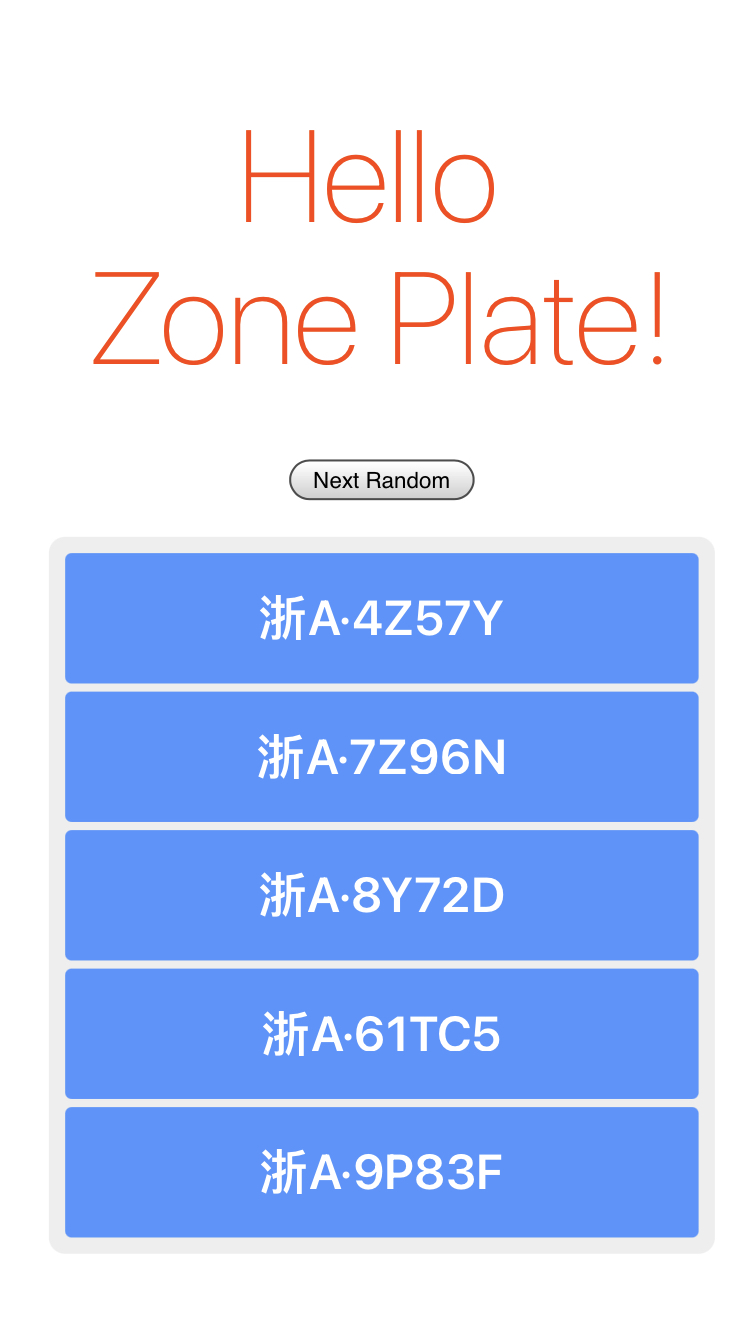
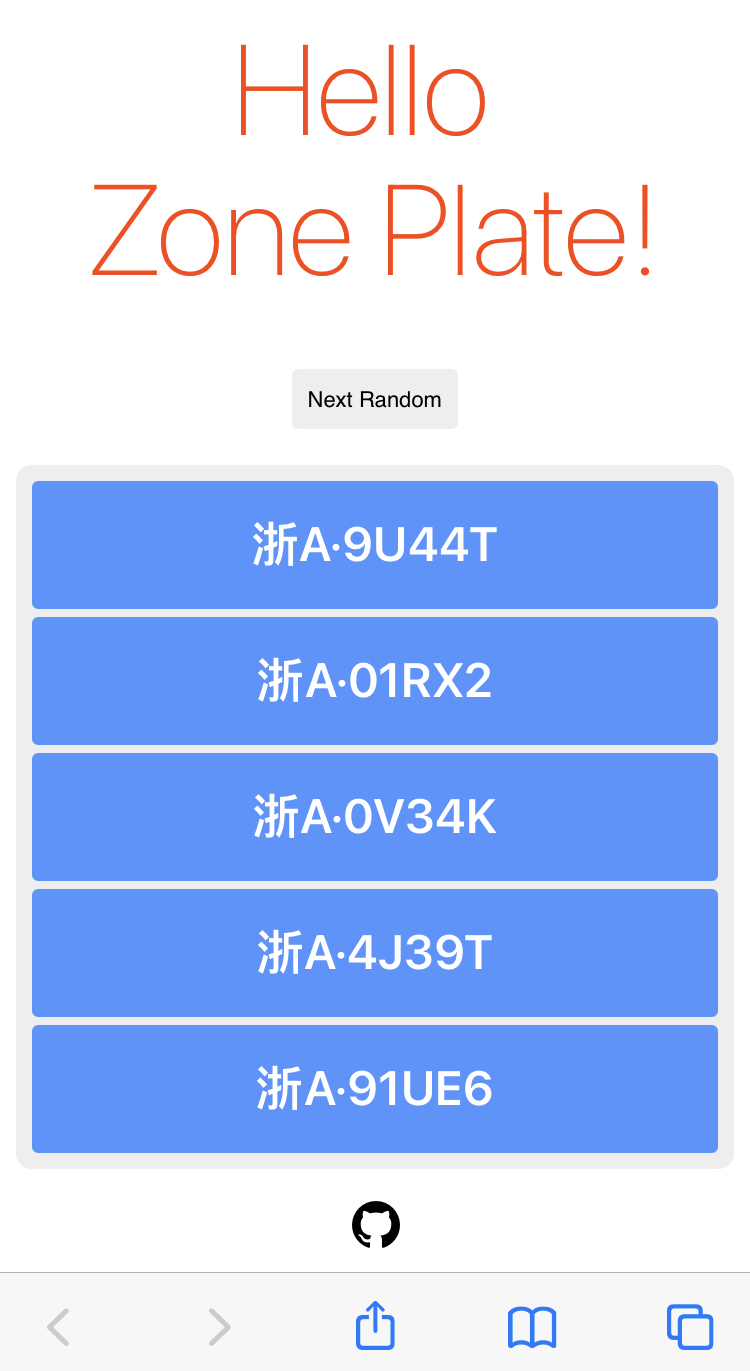
feat: add github link

Changed region(s): [[0.0307, 0.3404, 0.9813, 0.9902], [0.1227, 0.0309, 0.8893, 0.3094], [0.0613, 0.9592, 0.092, 0.9902]]

diff --git a/src/components/GithubIcon.svelte b/src/components/GithubIcon.svelte
@@ -1,0 +1,15 @@
+<script lang="ts">
+  export let url:string;
+</script>
+
+<a href={url}>
+  <svg
+    xmlns="http://www.w3.org/2000/svg"
+    width="24"
+    height="24"
+    viewBox="0 0 24 24"
+    ><path
+      d="M12 0c-6.626 0-12 5.373-12 12 0 5.302 3.438 9.8 8.207 11.387.599.111.793-.261.793-.577v-2.234c-3.338.726-4.033-1.416-4.033-1.416-.546-1.387-1.333-1.756-1.333-1.756-1.089-.745.083-.729.083-.729 1.205.084 1.839 1.237 1.839 1.237 1.07 1.834 2.807 1.304 3.492.997.107-.775.418-1.305.762-1.604-2.665-.305-5.467-1.334-5.467-5.931 0-1.311.469-2.381 1.236-3.221-.124-.303-.535-1.524.117-3.176 0 0 1.008-.322 3.301 1.23.957-.266 1.983-.399 3.003-.404 1.02.005 2.047.138 3.006.404 2.291-1.552 3.297-1.23 3.297-1.23.653 1.653.242 2.874.118 3.176.77.84 1.235 1.911 1.235 3.221 0 4.609-2.807 5.624-5.479 5.921.43.372.823 1.102.823 2.222v3.293c0 .319.192.694.801.576 4.765-1.589 8.199-6.086 8.199-11.386 0-6.627-5.373-12-12-12z"
+    /></svg
+  >
+</a>

diff --git a/src/App.svelte b/src/App.svelte
@@ -1,4 +1,5 @@
 <script lang="ts">
+  import GithubIcon from './components/GithubIcon.svelte';
   import MediaQuery from './components/MediaQuery.svelte';
   import Plates from './Plates.svelte';
 </script>
@@ -22,6 +23,8 @@
       <Plates total={5} />
     {/if}
   </MediaQuery>
+
+  <GithubIcon url="https://github.com/AkatQuas/zone-plate" />
 </main>
 
 <style>
@@ -32,7 +35,6 @@
 
   main {
     text-align: center;
-    padding: 1em;
     margin: 0 auto;
   }
 

diff --git a/src/Plates.svelte b/src/Plates.svelte
@@ -22,3 +22,14 @@
   <button on:click={makeNext}>Next Random</button>
   <List list={list} col={total/5} />
 </section>
+
+<style>
+  button {
+    outline: none;
+    border: none;
+    cursor: pointer;
+    padding: .5rem;
+    border-radius: .2rem;
+    background-color: #eee;
+  }
+</style>
